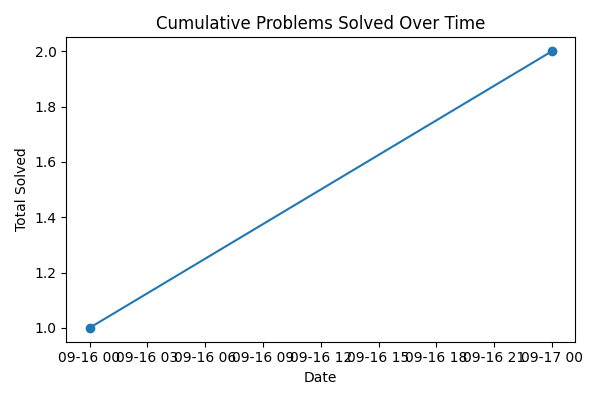
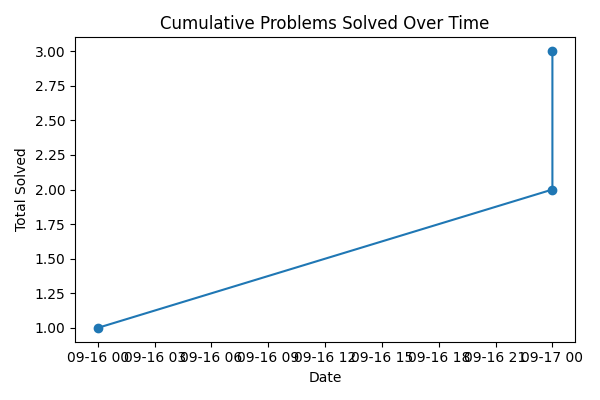
Update LeetCode stats and charts

diff --git a/README.md b/README.md
@@ -1,6 +1,6 @@
 # Daily LeetCode Practice 🧑💻
 
-## Total problems solved: 2
+## Total problems solved: 3
 
 <table>
 <tr>
@@ -15,6 +15,7 @@
 - [x] array
 - [x] hash_table
 - [x] sorting
+- [x] string
 
 </td>
 </tr>
